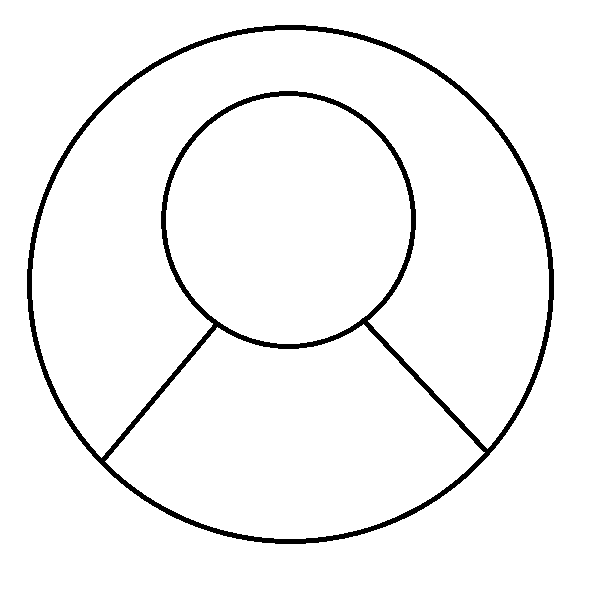
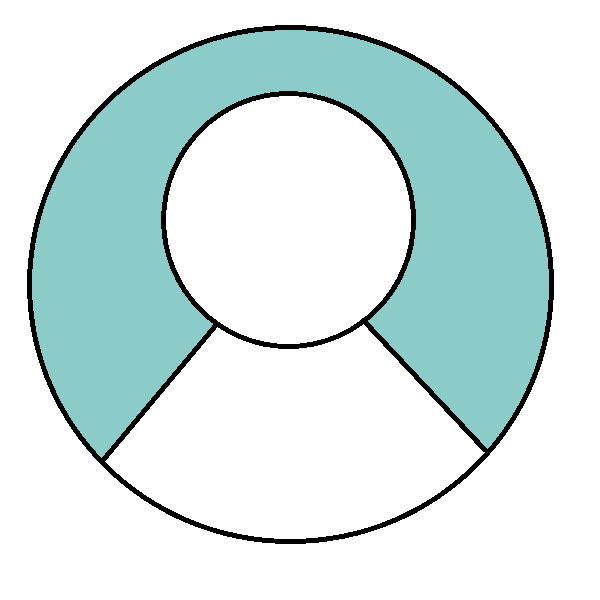
Cleaned up services

Changed region(s): [[0.03, 0.03, 0.93, 0.78]]

diff --git a/css/adoption.css b/css/adoption.css
@@ -62,12 +62,13 @@ main{
   width: 40%;
   justify-content: left;
   align-items: center;
-  background-color: cornflowerblue;
+  background-color: #8BCBC8;
   border: solid;
-  border-color: #4668A5;
+  border-color: cornflowerblue;
   border-width: 4px;
   margin-bottom: 5px;
   margin-top: 4px;
+  border-radius: 40px;
 }
 
 .filter-label{
@@ -89,7 +90,7 @@ main{
   height: 70%;
   width: 17%;
   border-radius: 50%;
-  background-color: #4668A5;
+  background-color: cornflowerblue;
   margin: 10px;
   justify-content: center;
   align-items: center; 
@@ -106,7 +107,7 @@ main{
   justify-content: center;
   align-items: center; 
   border: solid;
-  border-color: #4668A5;
+  border-color: cornflowerblue;
   border-radius: 40px;
   overflow: hidden;
   border-collapse: collapse;
@@ -120,7 +121,7 @@ main{
   height: 12vh;
   width: 12vh;
   margin: 0px;
-  background-color: cornflowerblue;
+  background-color: #8BCBC8;
   margin: 2px;
   border-radius: 300px;
   justify-content: center;
@@ -132,7 +133,7 @@ main{
   display: flex;
   flex-wrap: nowrap;
   flex-direction: column;
-  height: 70%;
+  height: 80%;
   width: 60%;
   margin: 0px;
   justify-content: center;
@@ -141,7 +142,7 @@ main{
   border-width: 5px;
   overflow: hidden;
   border-radius: 100px;
-  border-color: coral;
+  border-color: #FDAE84;
 }
 
 .animal-pic{
@@ -169,8 +170,8 @@ main{
   align-items: center;
   margin-right: 4px;  
   border: solid;
-  border-color: #4668A5;
-  background-color: cornflowerblue;
+  border-color: cornflowerblue;
+  background-color: #8BCBC8;
 }
 
 .labelText {
@@ -179,6 +180,7 @@ main{
     align-items: center;  
     fill: whitesmoke;
     color: whitesmoke;
+    font-size: 20px;
 }
 
 #filterLabel {
@@ -186,6 +188,8 @@ main{
     justify-content: center;
     align-items: center;  
     fill: white;
+    color: white;
+    font-size: 20px;
 }
 
 .blurb{
@@ -202,10 +206,11 @@ main{
     align-items: center;  
     fill: black;
     color: black;
+    font-size: 20px;
 }
 
 .adoption{
-  height: 90%;
+  height: 85%;
   width: 8%;
 }
 
@@ -236,17 +241,17 @@ main{
 }
 
 .X{
-  height: 80%;
+  height: 70%;
   width: 60%;
   justify-content: center;
   align-items: center;
 }
 
 #top-border {
-    background-color: cornflowerblue;
+    background-color: #8BCBC8;
     margin: 0px;
     border: 20px solid white;
-    border-bottom-color: coral;
+    border-bottom-color: #FDAE84;
     
     color: white;
     padding: 5px;

diff --git a/services.html b/services.html
@@ -29,7 +29,7 @@
     <main>
         <div id="non-categories">
             <div class="user-pic" >
-                <img class="img" id="profile-pic" src="img/profile-pic.png">
+                <img class="user-img" src="img/profile-pic.png">
                 </img>
             </div>
 
@@ -37,20 +37,34 @@
 
         <div id="categories">
             <div id="Pet-Sitting" class="category">
-                <img class="img" id="pet-sitting" src="img/pet-sitting.png">
-                </img>
+                <div class="labeler">
+                    <text class="serviceText" > Pet-Sitting </text>
+                </div>
+                <a class="linker" id="pet-sitting" class="category">
+                    <img class="img" src="img/walking-with-dog.png">
+                    </img>
+                </a>
             </div>
-        <a href="adoption.html" class="category">
-            <div id="Adoption">
-                <img class="img" id="adoption" src="img/adoption.png">
-                </img>
-            </div>                    
-        </a>
+
+            <div id="Adoption" class="category">
+                <div class="labeler">
+                    <text class="serviceText" > Adoption </text>
+                </div>
+                <a class="linker" id="adoption" href="adoption.html" class="category">
+                    <img class="img" src="img/doggo.png">
+                    </img>
+                </a>
+            </div>
 
 
             <div id="Grooming" class="category">
-                <img class="img" id="grooming" src="img/grooming.png">
-                </img>
+                <div class="labeler">
+                    <text class="serviceText" > Grooming </text>
+                </div>
+                <a class="linker" id="grooming" class="category">
+                    <img class="img" src="img/grooming.png">
+                    </img>
+                </a>
             </div>
 
         </div>

diff --git a/css/services.css b/css/services.css
@@ -17,15 +17,6 @@
   justify-content: left;
 }
 
-header{
-  display: flex;
-  flex-wrap: nowrap;
-  flex-direction: row;
-  height: 30%;
-  width: 100%;
-  background-color: darkred;
-
-}
 
 main{
   display: flex;
@@ -51,6 +42,7 @@ main{
     width: 10%;
     align-items: center;
     justify-content: center;
+  
 }
 
 .non-cat{
@@ -71,29 +63,36 @@ main{
   flex-direction: row;
   justify-content: center;
   align-items: center;
+  
+  
 }
-
 
 .category{
     display: flex;
-    height: 80%;
-    width: 33%;
-    margin: 10px;
+    height: 30vh;
+    width: 30vh;
     align-items: center;
     justify-content: center;
-    border-radius: 50%;
+    flex-direction: column;
+    background: #8BCBC8;
+    margin: 10px;
+    border-radius: 200px;
 }
 
-
-
-.img{
-  height: 120%;
-  width: 90%;
+img{
+  height: 100%;
+  width: 100%;
 }
 
-.img:hover{
-  height: 125%;
-  width: 95%;
+.linker{
+  height: 50%;
+  width: 50%;
+}
+
+.user-img{
+  height: 100%;
+  width: 70%;
+
 }
 
 
@@ -103,14 +102,31 @@ main{
 }
 
 #top-border {
-    background-color: cornflowerblue;
+    background-color: #8BCBC8;
     margin: 0px;
     border: 20px solid white;
-    border-bottom-color: coral;
+    border-bottom-color: #FDAE84;
     
     color: white;
     padding: 5px;
     text-align: center;
     font-family: 'Lemon', cursive; 
     font-size: 60px;
+}
+
+.serviceText {
+    font-family: 'Lemon';
+    justify-content: center;
+    align-items: center;  
+    fill: white;
+    color: white;
+    font-size: 25px;
+}
+
+.labeler{
+  display: flex;
+  height: 20%;
+  width: 100%;
+    align-items: center;
+    justify-content: center;
 }

diff --git a/adoption.html b/adoption.html
@@ -47,7 +47,7 @@
         <div class = "page">
             <div class = "filters">
                 <div class="filter-label">
-                    <text class="labelText" id="filterLabel"> Filters: </text>
+                    <text id="filterLabel"> Filters: </text>
                 </div>
 
                 <button class="filter-node">
